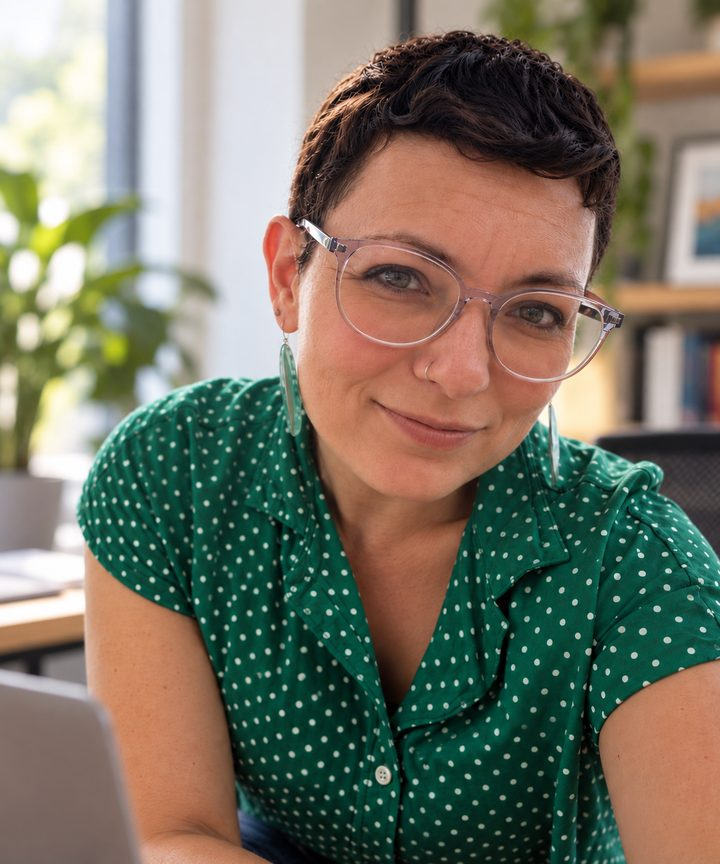
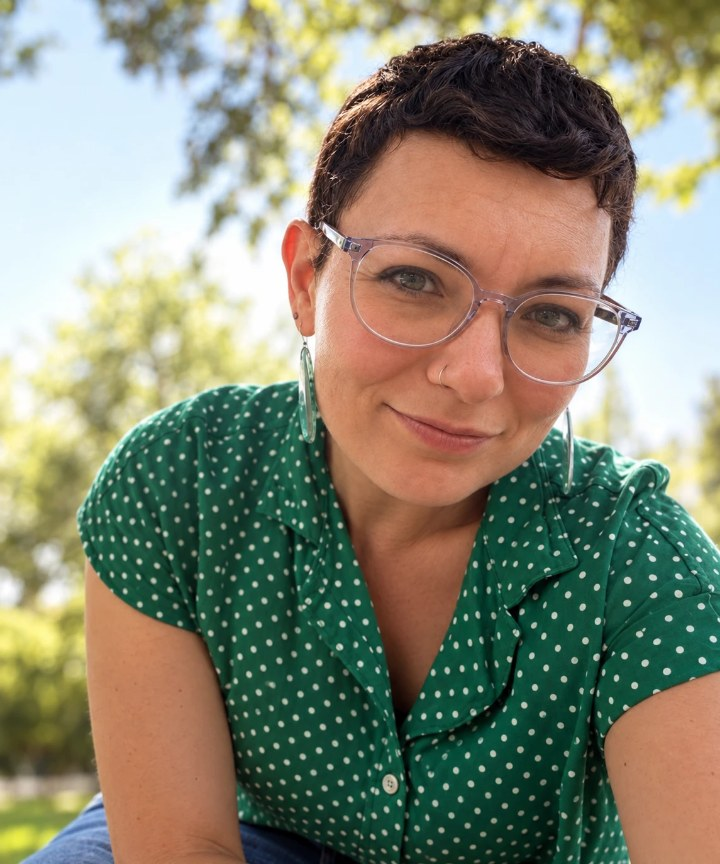
Update hero portrait
New outdoor portrait (720x864 JPEG) and matching alt text.

Claude-Session: https://claude.ai/code/session_019S1mfWf4s4tCRBQ3Y2Vzz2

diff --git a/index.html b/index.html
@@ -241,7 +241,7 @@ a:focus-visible, .btn:focus-visible { outline: 3px solid var(--accent); outline-
           <a class="btn btn-ghost" href="https://github.com/batamig-labs" target="_blank" rel="noopener">GitHub</a>
         </div>
       </div>
-      <div class="portrait"><img src="assets/portrait.jpg" alt="Batami Gold smiling at the camera in glasses and a green polka-dot shirt, seated in a bright office with plants" width="720" height="864"></div>
+      <div class="portrait"><img src="assets/portrait.jpg" alt="Batami Gold smiling at the camera in glasses and a green polka-dot shirt, outdoors under a tree" width="720" height="864"></div>
     </section>
 
     <section class="sec" id="do" aria-labelledby="h-do">
